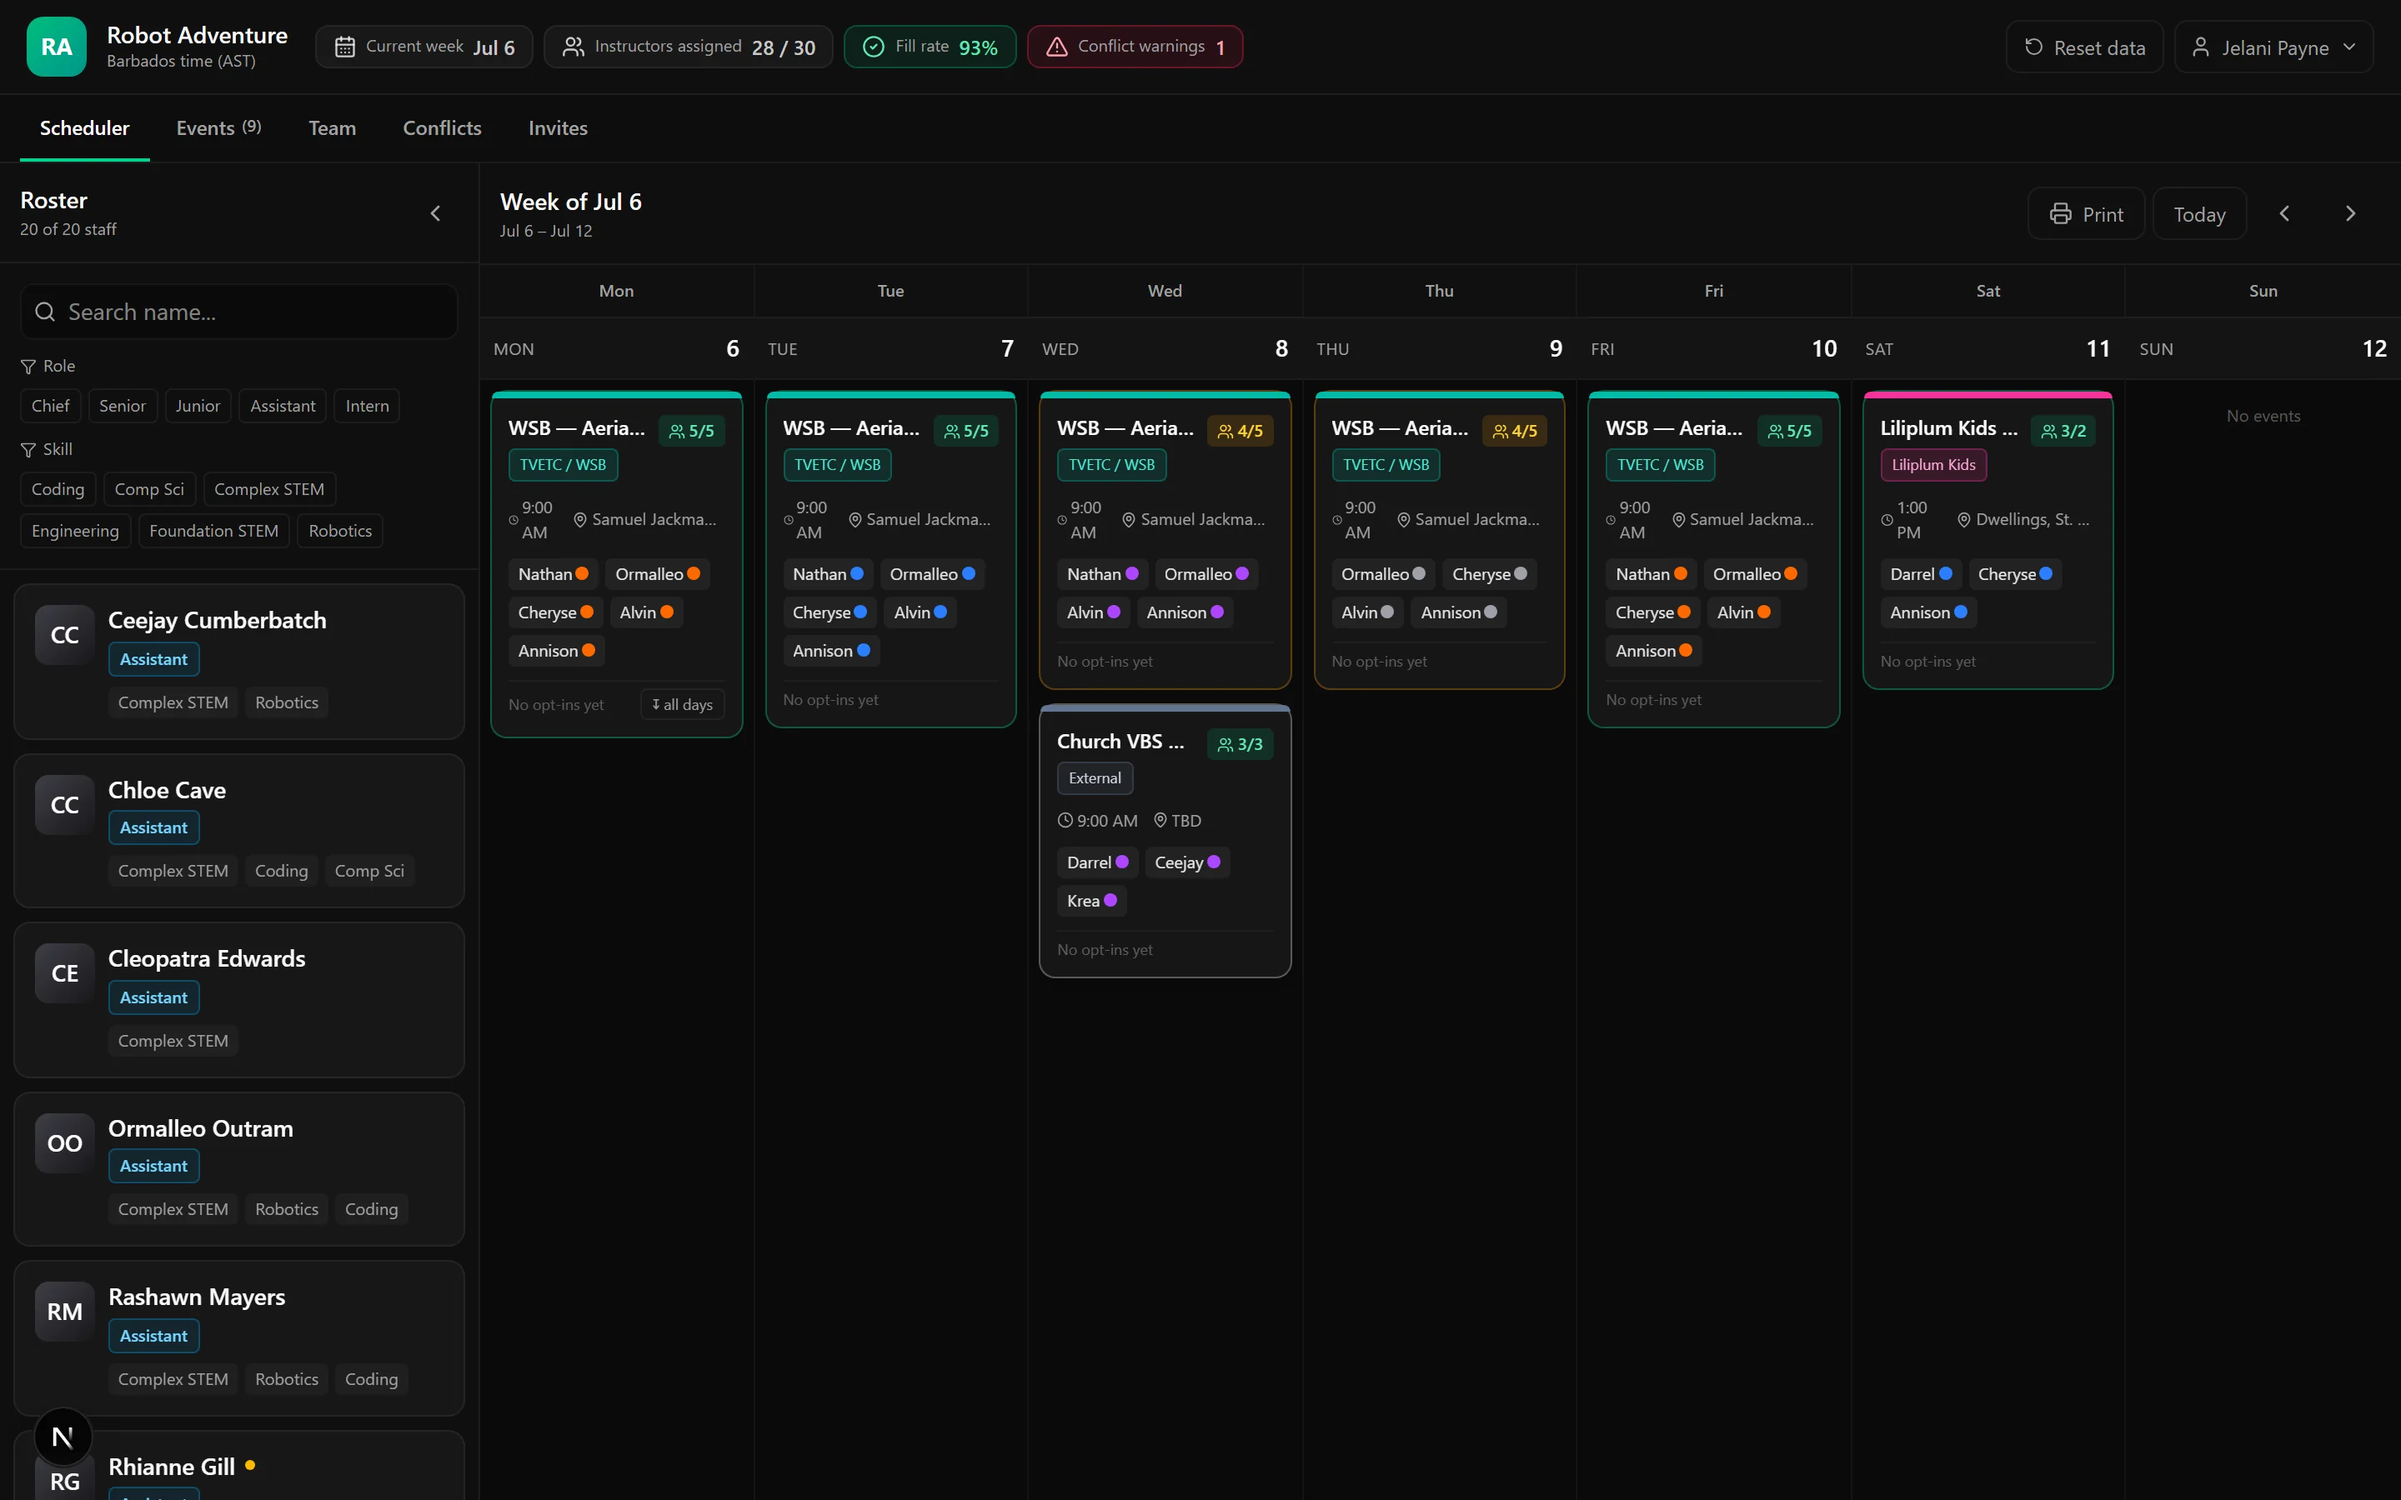
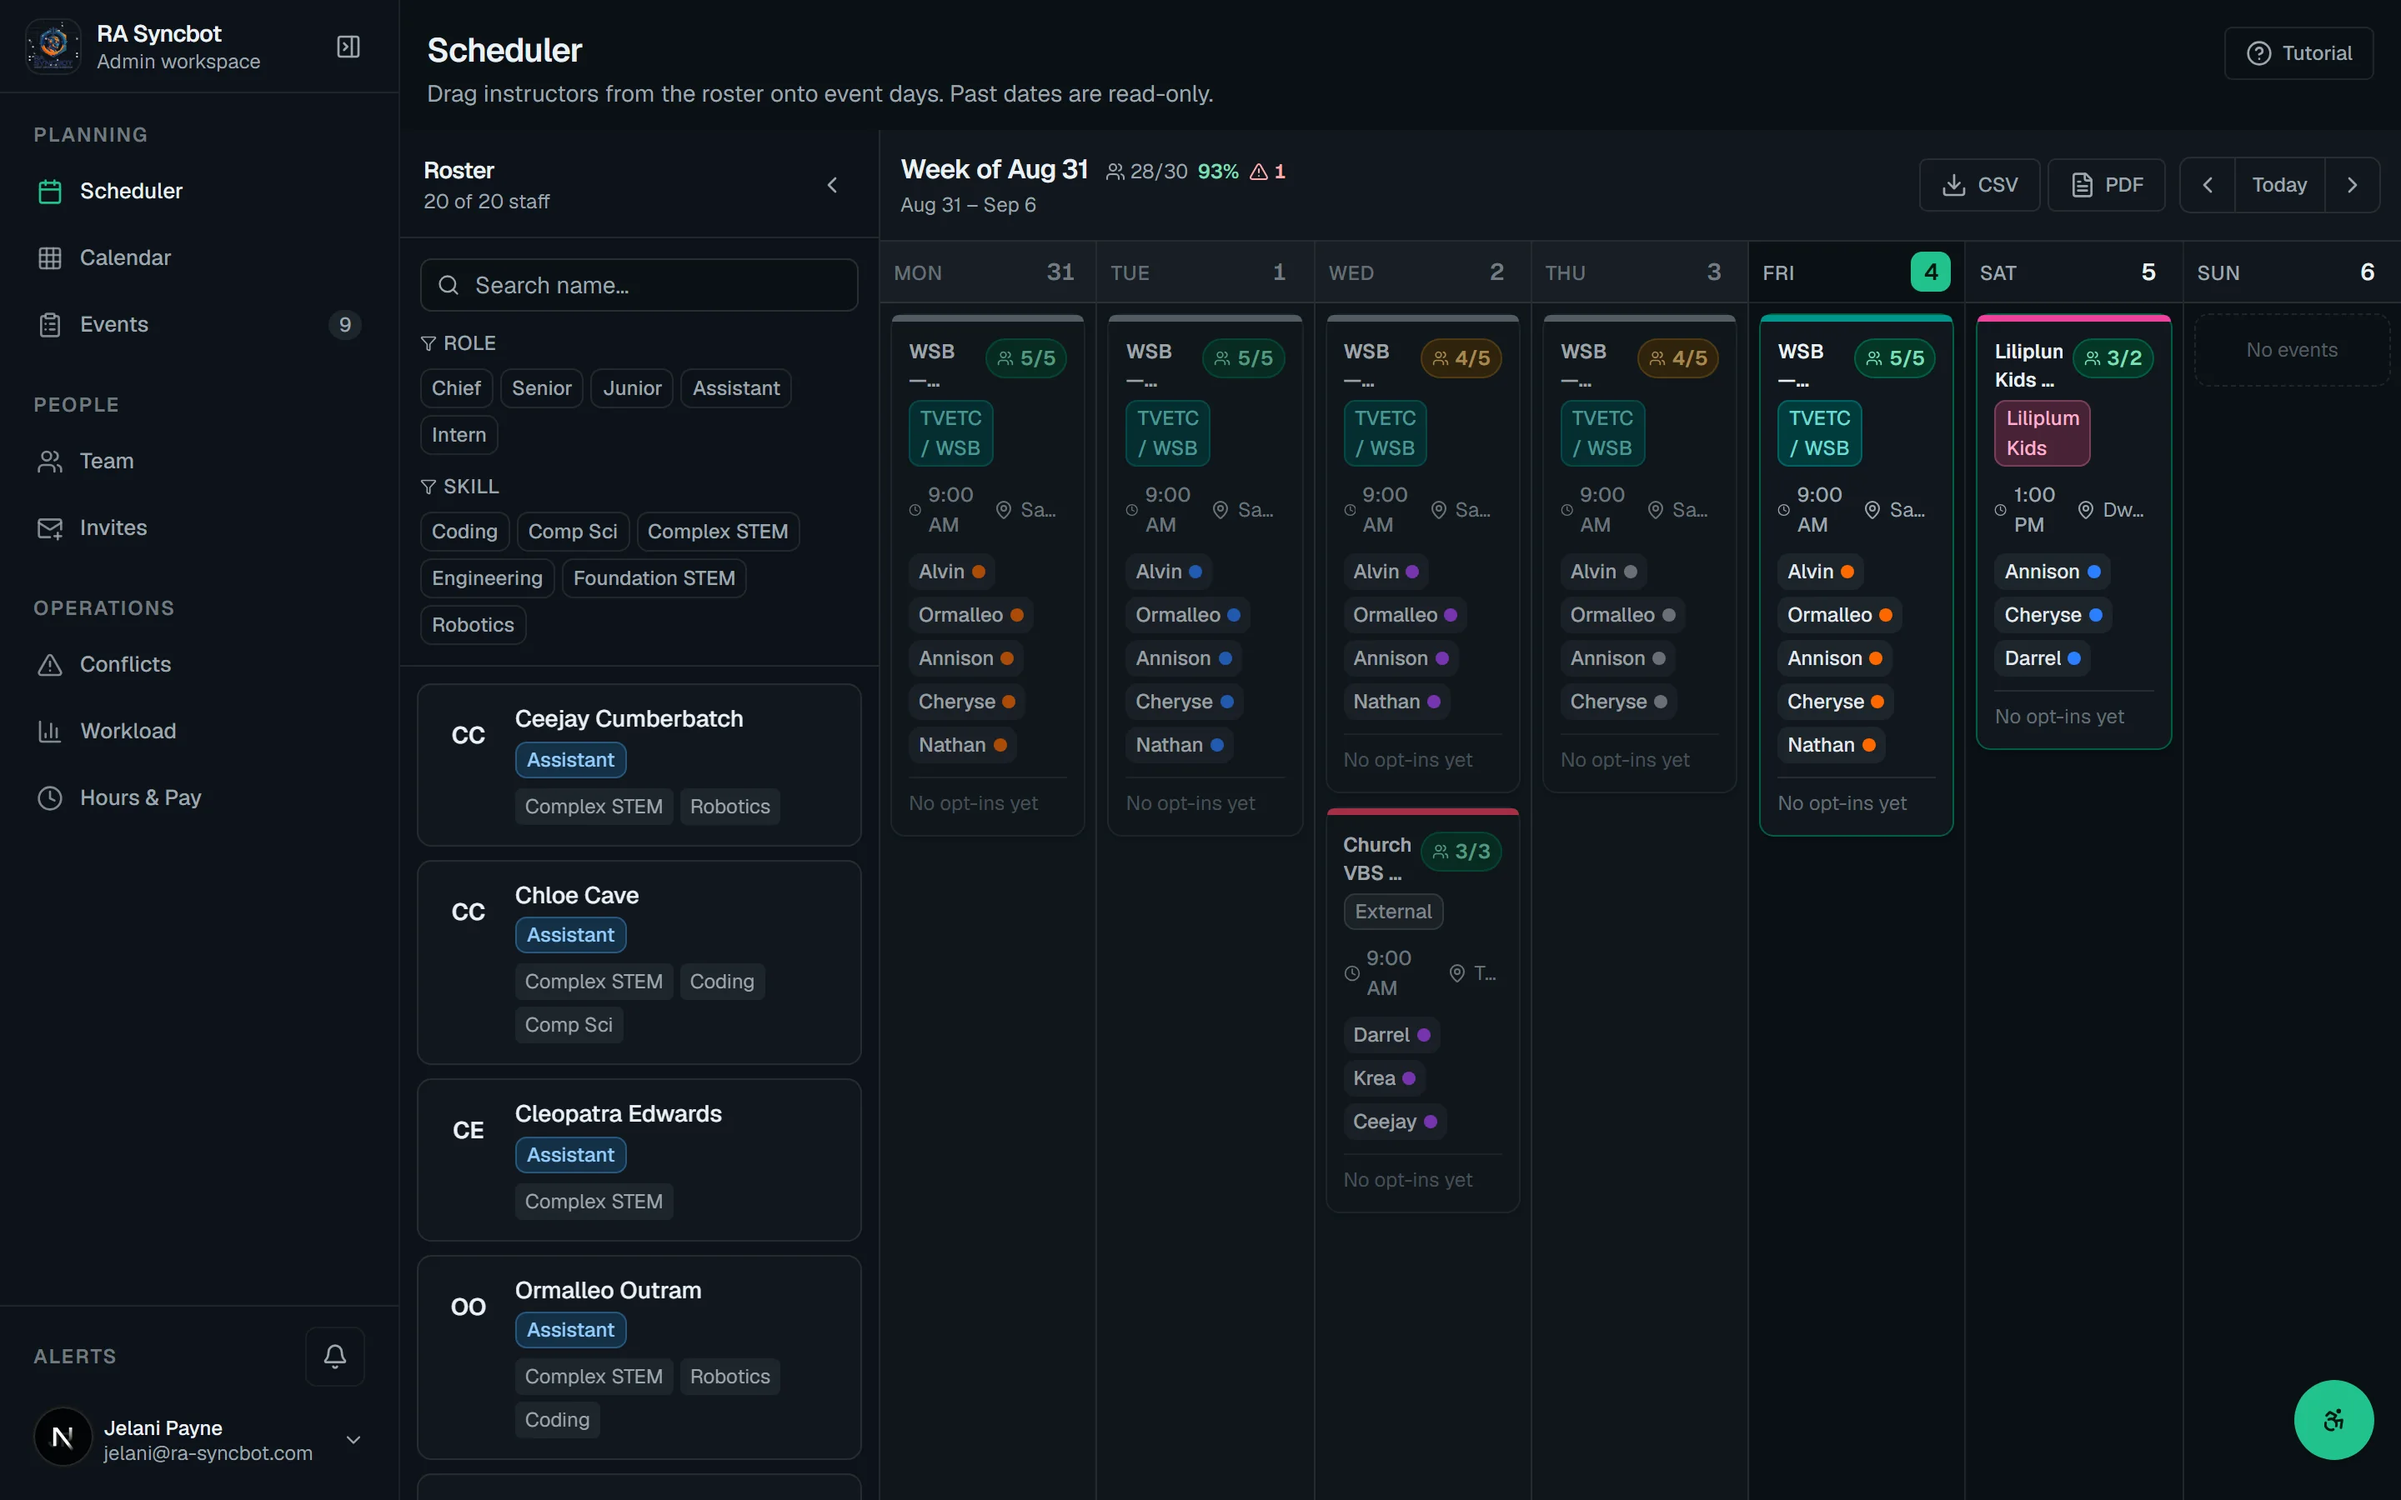
RASyncbot: swap in revamped UI screenshots, update feature copy

diff --git a/lib/work.ts b/lib/work.ts
@@ -212,10 +212,10 @@ export const caseStudies: CaseStudy[] = [
     problem:
       "A kids' robotics company runs camps and workshops all over Barbados, and assigning twenty instructors to seventeen events ran on spreadsheets and PDFs. Double bookings, unavailable dates and unfilled slots were found out on the morning, not the week before.",
     build: [
-      "Drag-and-drop scheduling: pull instructors from the roster rail onto event cards across a weekly calendar, with tap-to-assign on mobile",
+      "Drag-and-drop scheduling: pull instructors from the roster rail onto event days across a weekly calendar, with tap-to-assign on mobile and CSV/PDF exports",
       "Automatic conflict detection for double bookings, unavailable dates and fatigue streaks, flagged before they reach the venue",
-      "Tokenised invite links so each instructor sees only their own schedule, plus per-day shirt colours, event drawers and a print-friendly weekly view",
-      "Seeded with the real operation: 20 staff profiles, 17 events, role-based admin and instructor views",
+      "Attendance confirmation plus Hours & Pay tracking and a workload view, so instructor effort is visible instead of anecdotal",
+      "Tokenised invite links with instructor self-service views, seeded with the real operation: 20 staff profiles, 17 events",
     ],
     outcome:
       "Built free over two days to close the gap while working with the business. In the end it was not taken on, so it now lives as an open artefact: proof of how far a clear idea can get in a weekend, and an honest to-do list.",
@@ -232,8 +232,8 @@ export const caseStudies: CaseStudy[] = [
       height: DH,
     },
     secondary: {
-      src: "/work/raschedule/events.webp",
-      alt: "RASyncbot events list showing seventeen Barbados robotics camps and workshops with draft and confirmed statuses",
+      src: "/work/raschedule/calendar.webp",
+      alt: "RASyncbot calendar view showing the weekly schedule of robotics camps and workshop events",
       width: D,
       height: DH,
     },
